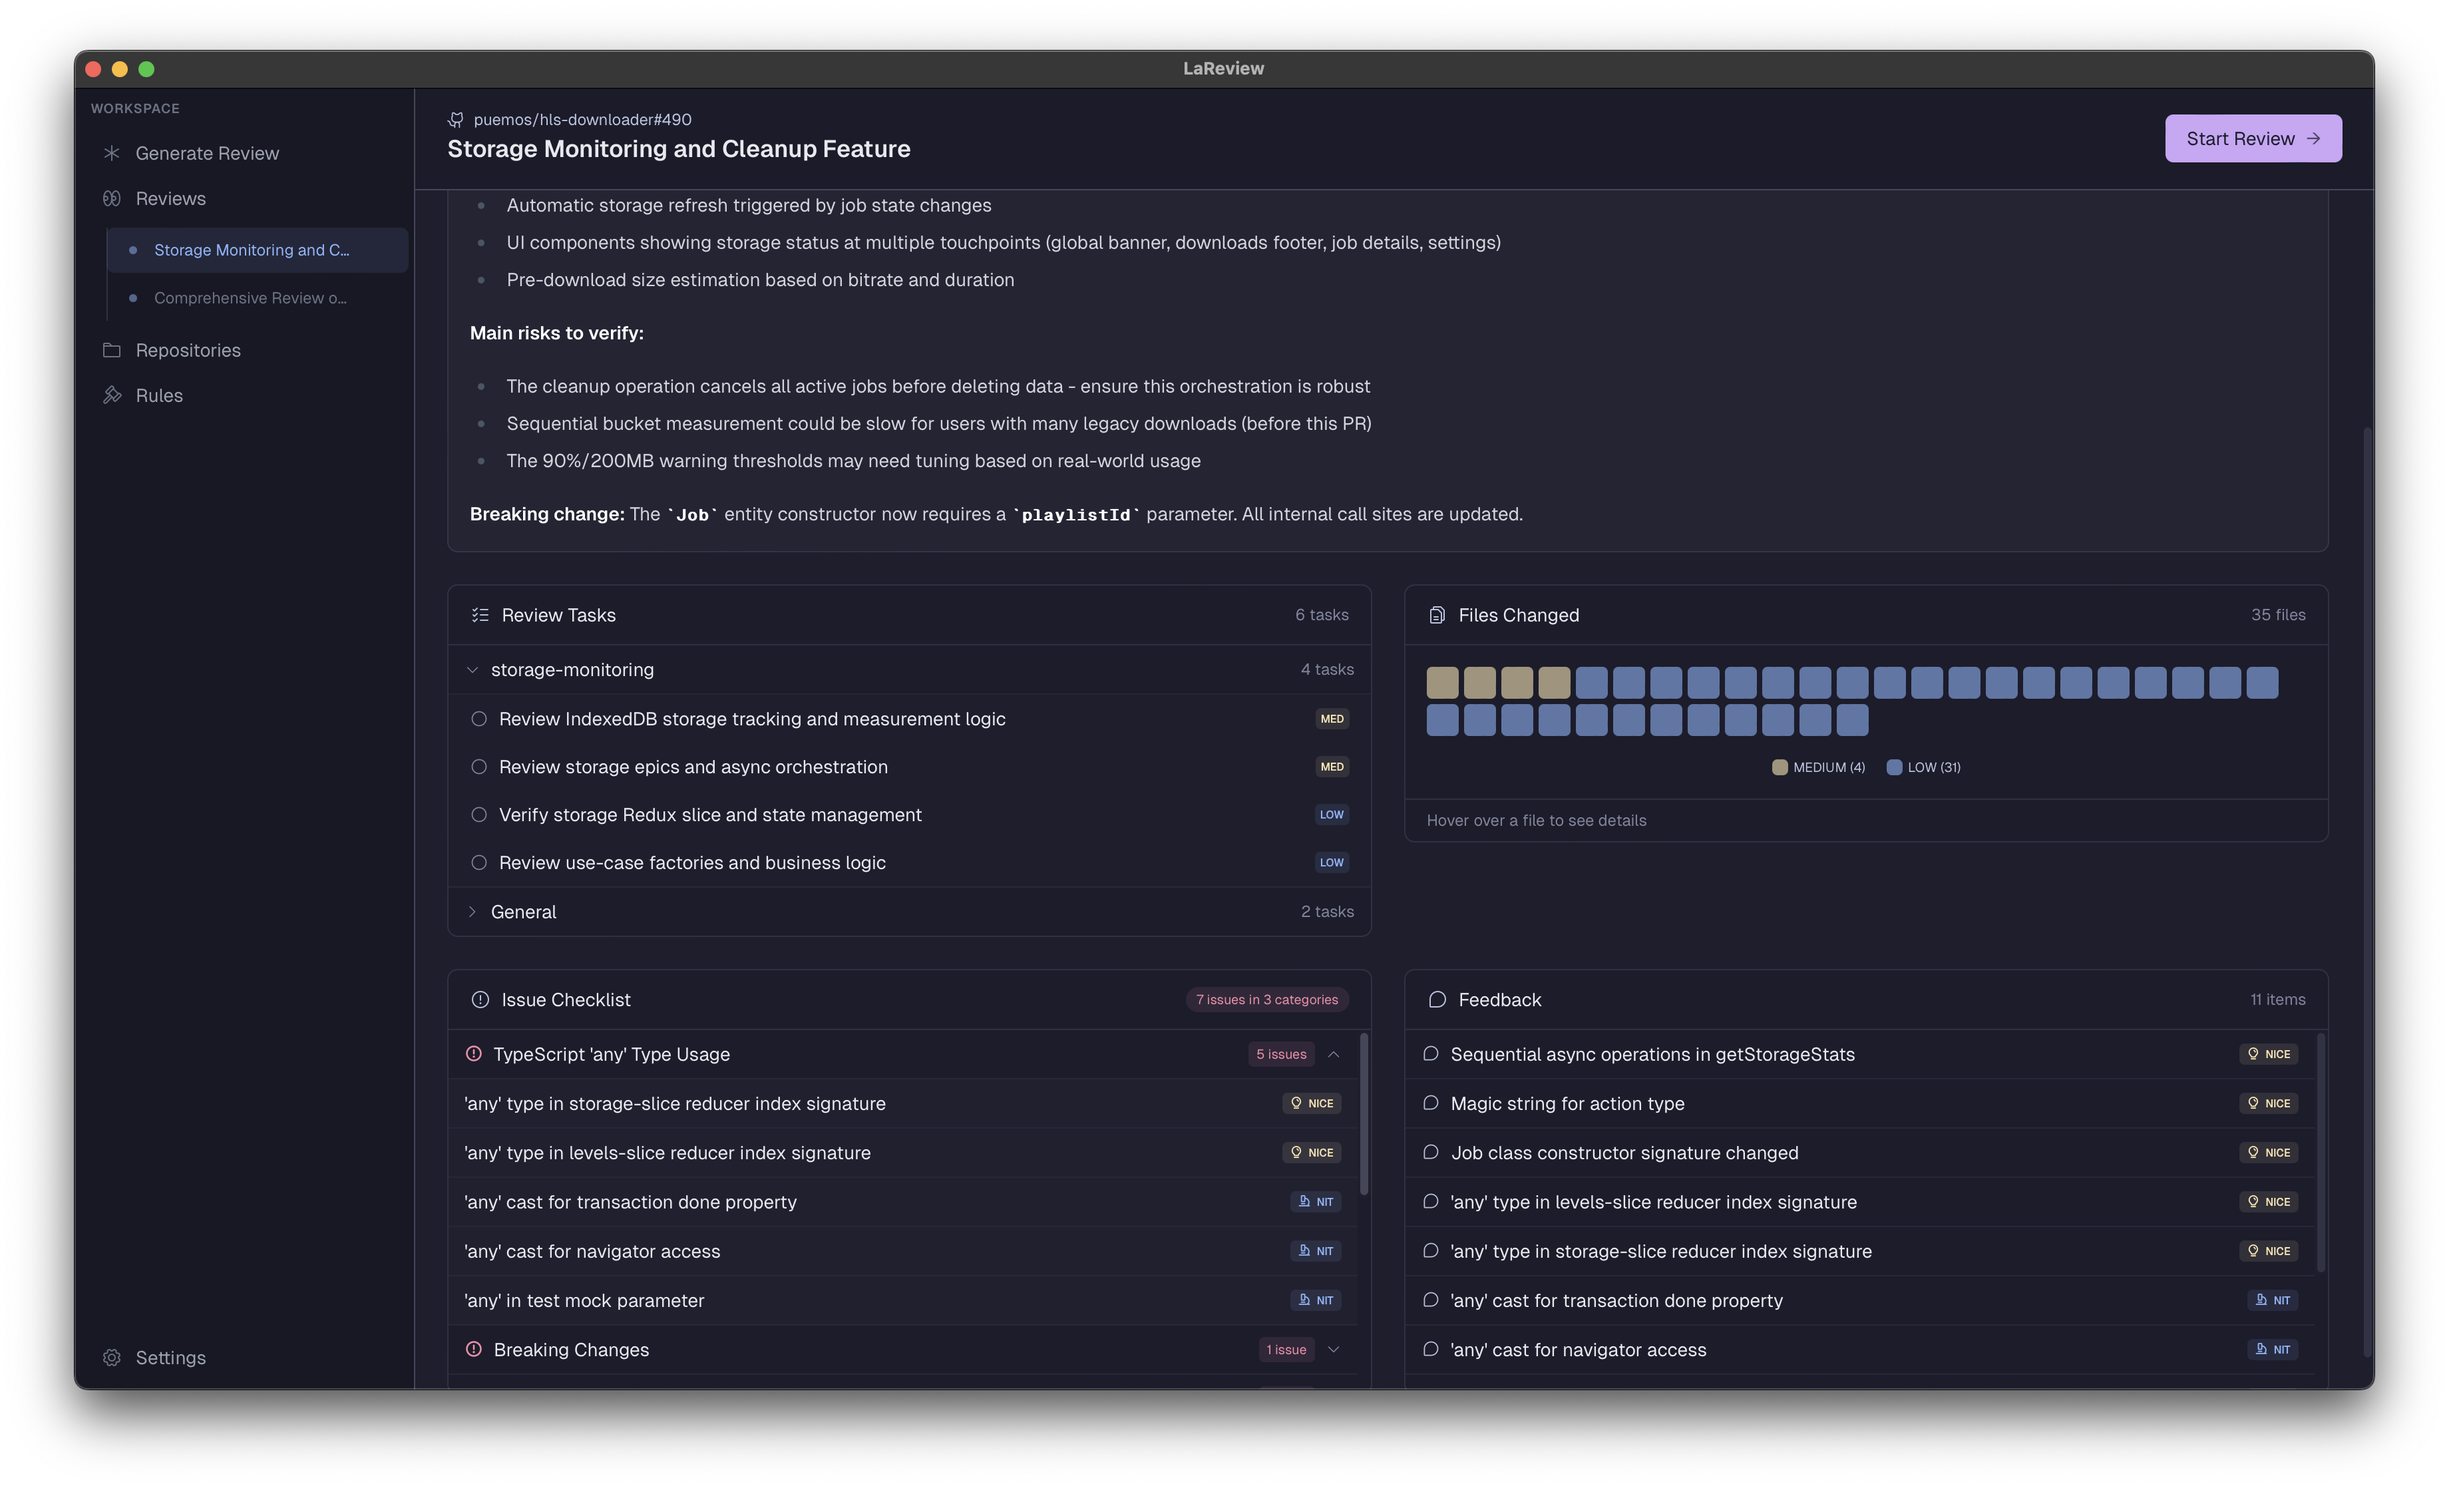
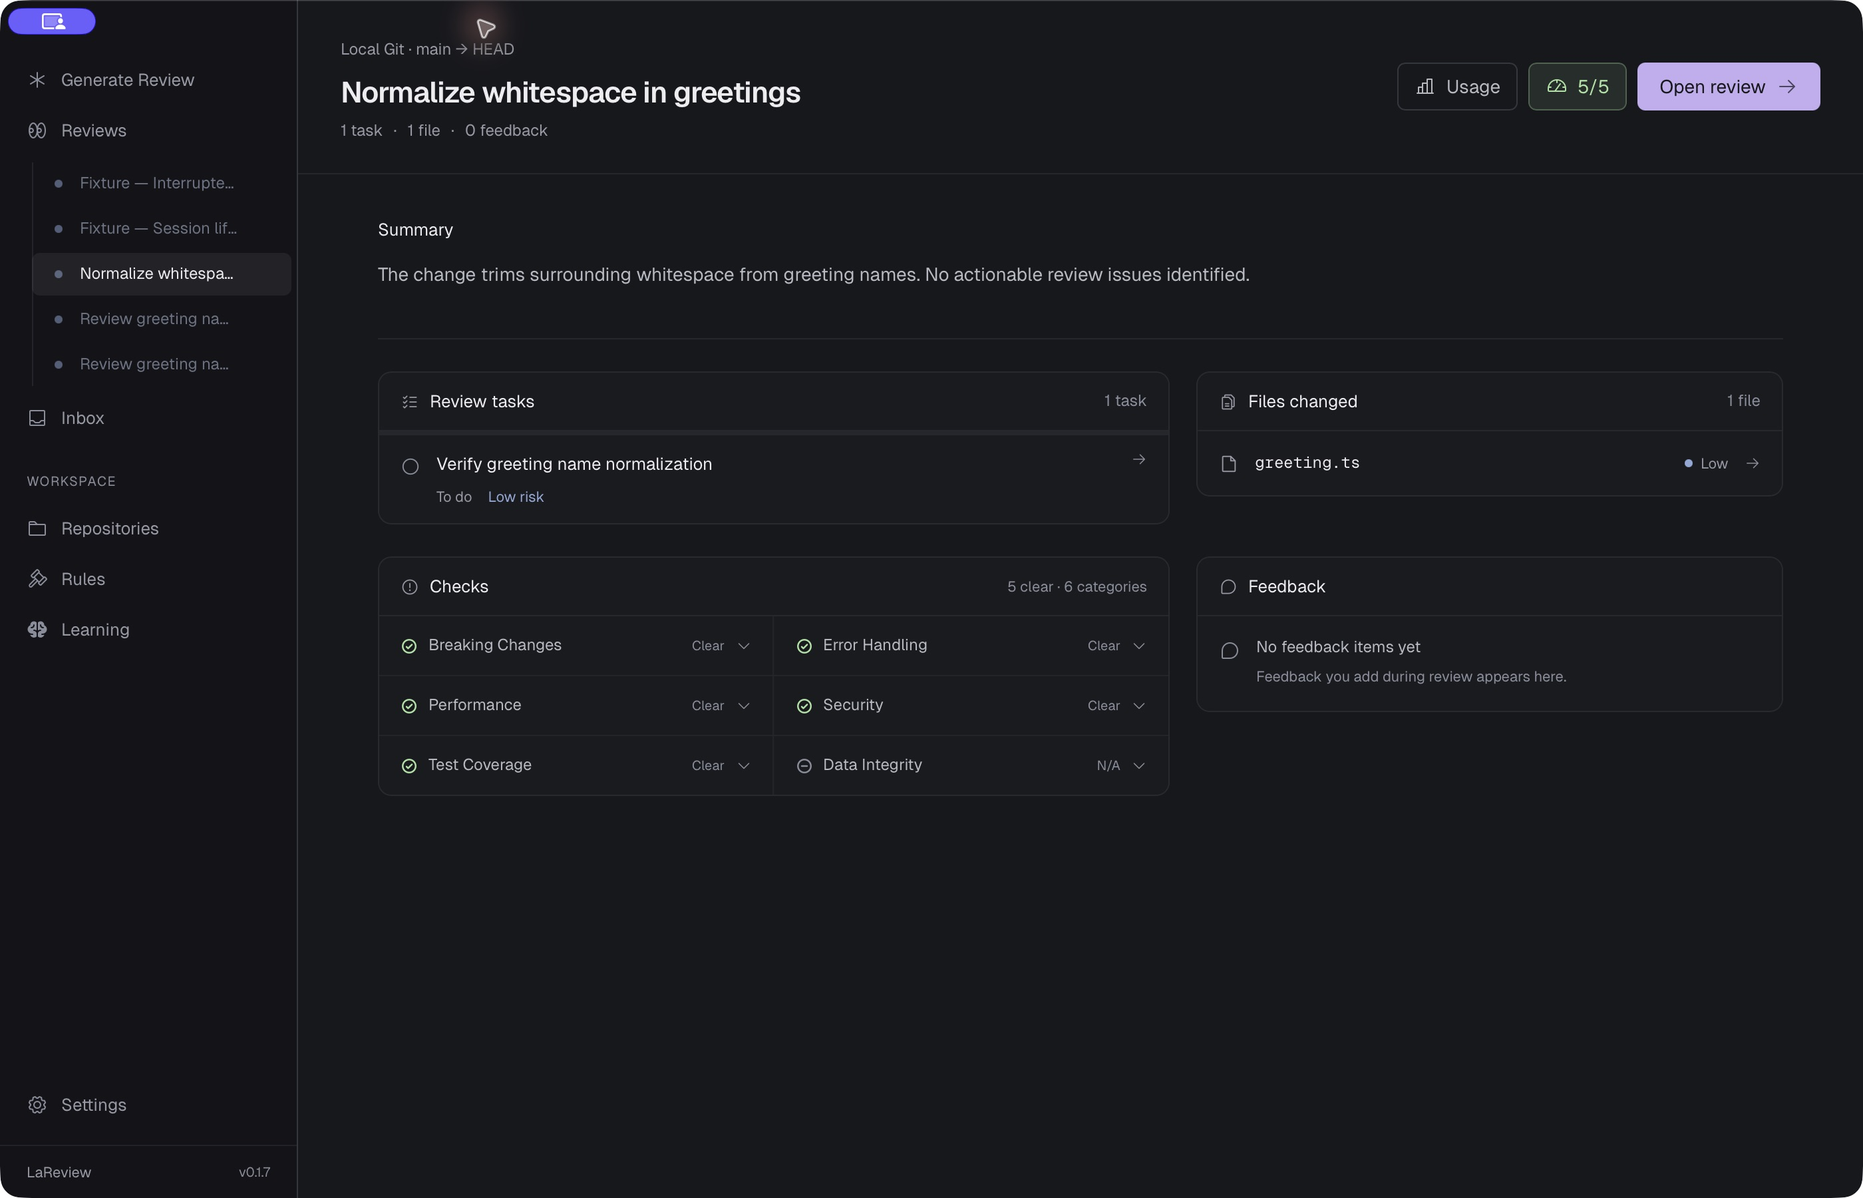
docs(readme): show the current native review experience

diff --git a/README.md b/README.md
@@ -17,7 +17,7 @@
   <a href="https://www.rust-lang.org"><img alt="Rust" src="https://img.shields.io/badge/rust-1.99.1-orange?style=flat-square" /></a>
 </p>
 
-[![LaReview hero screenshot](assets/screenshots/review.webp)](assets/screenshots/review.webp)
+[![Completed Local Git review with tasks, file risk, and issue checks](assets/screenshots/review.webp)](assets/screenshots/review.webp)
 
 ---
 
